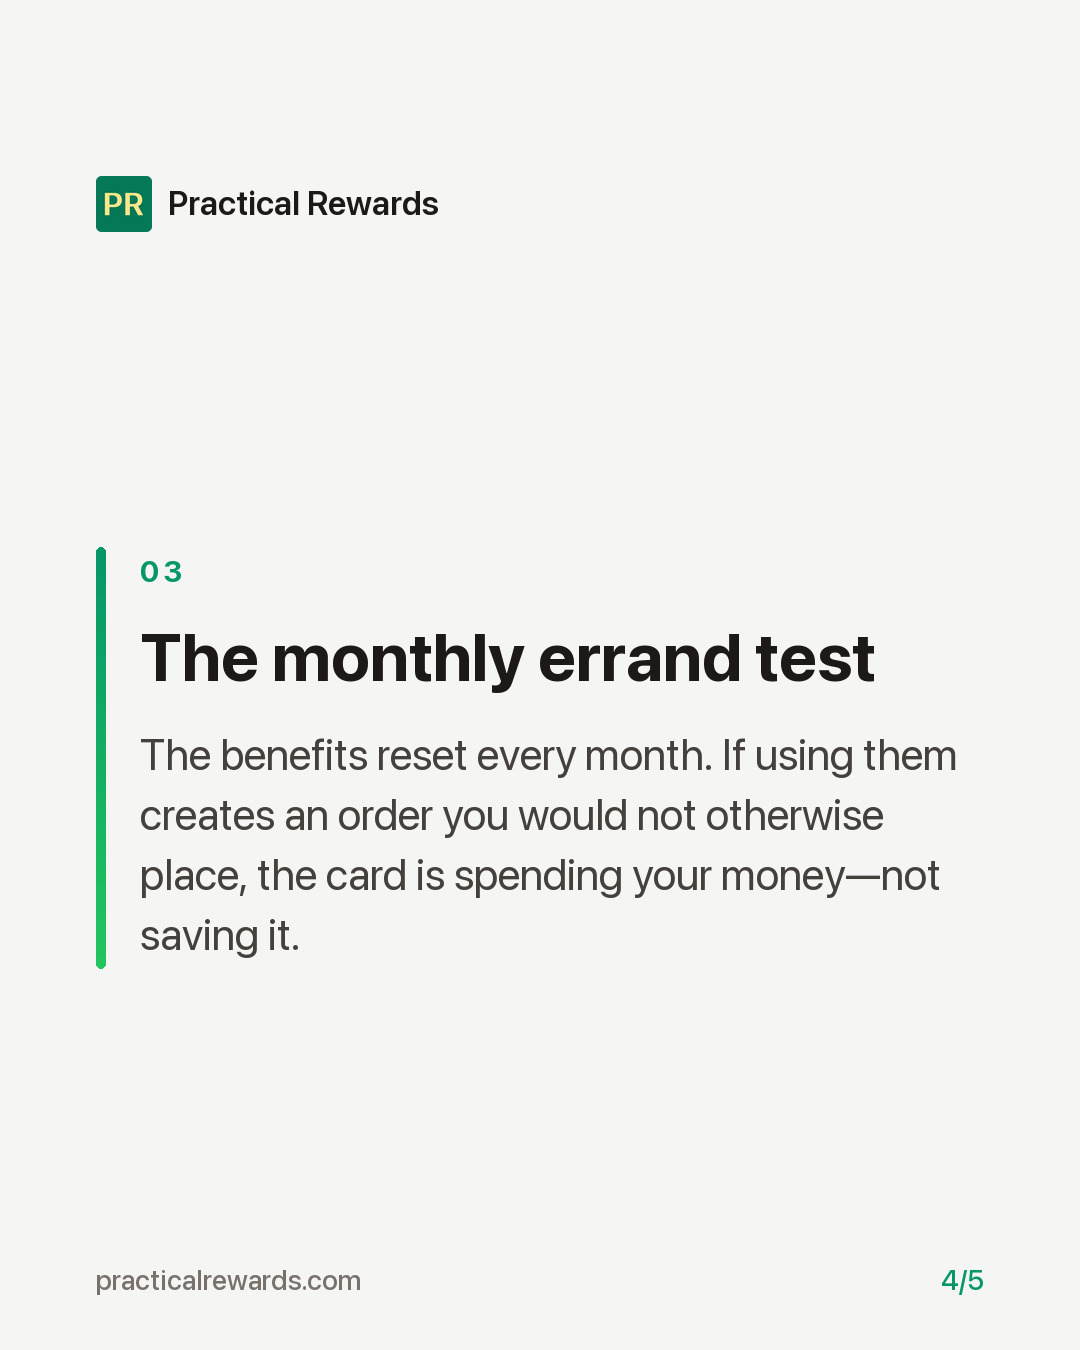
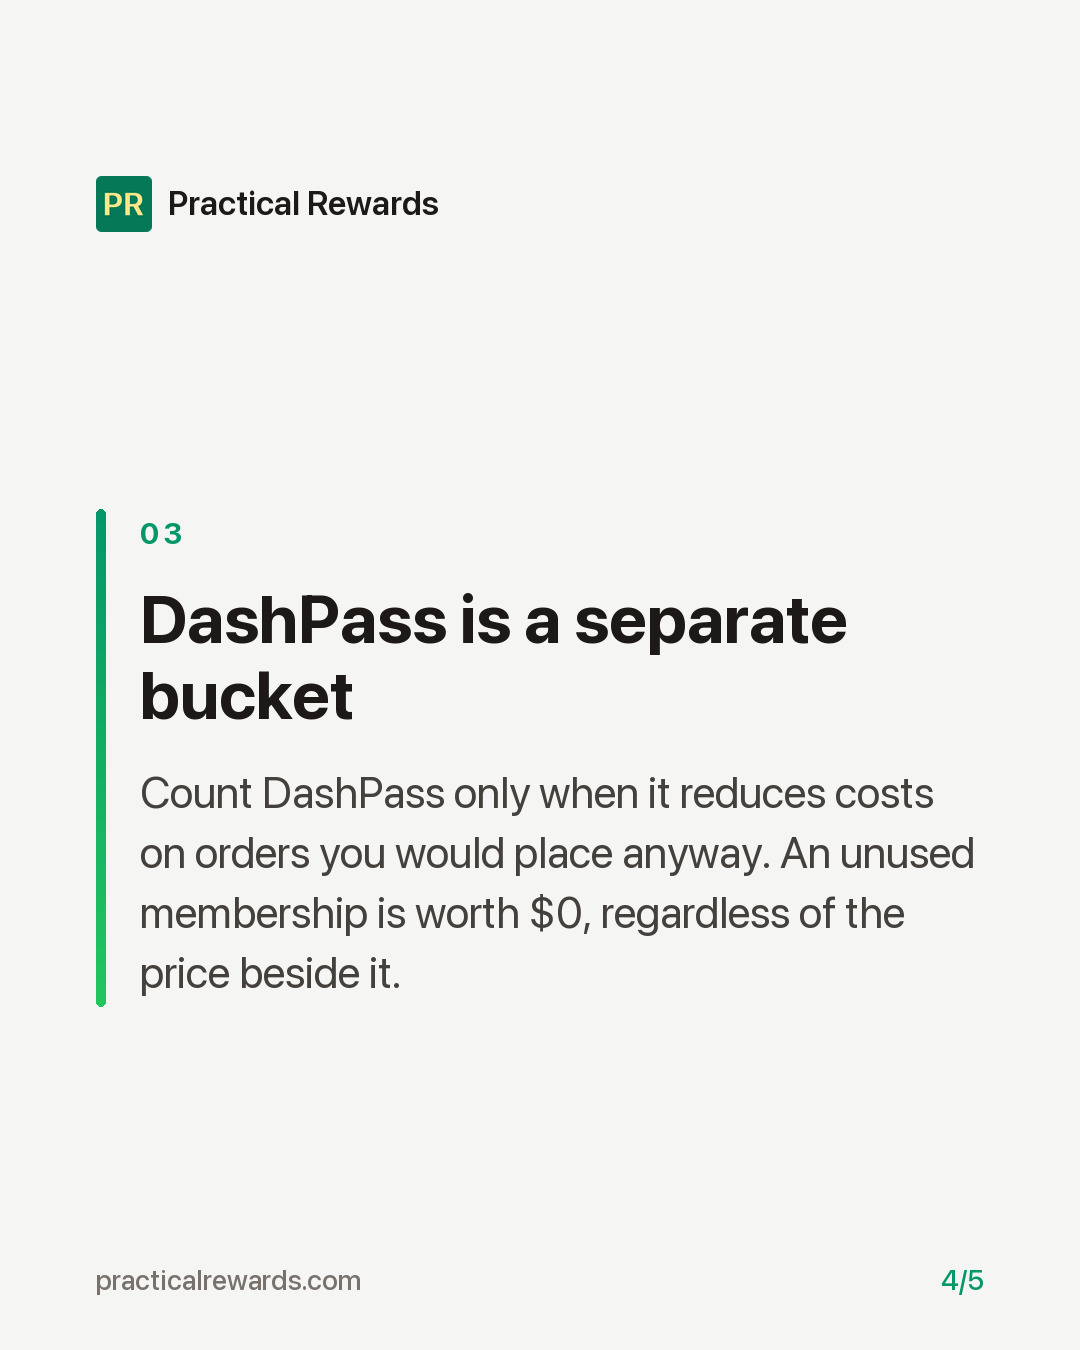
Social copy: no spelled-out years; publisher --backlog mode (oldest unposted first)

Changed region(s): [[0.0917, 0.3733, 0.9167, 0.7467]]

diff --git a/tools/instagram_publish.py b/tools/instagram_publish.py
@@ -202,6 +202,23 @@ def load_records() -> dict[str, Any]:
     return records if isinstance(records, dict) else {}
 
 
+def backlog_slug(records: dict[str, Any]) -> str | None:
+    """Oldest post (by blog date) with generated assets that has not been posted."""
+    published = read_json(STATE / "published.json", [])
+    if not isinstance(published, list):
+        return None
+    for item in published:  # published.json is in chronological order
+        if not isinstance(item, dict):
+            continue
+        slug = str(item.get("slug", ""))
+        record = records.get(slug)
+        if isinstance(record, dict) and record.get("state") == "published":
+            continue
+        if (ROOT / "social" / slug / "post.json").is_file():
+            return slug
+    return None
+
+
 def latest_slug() -> str:
     published = read_json(STATE / "published.json", [])
     if not isinstance(published, list) or not published:
@@ -215,6 +232,7 @@ def main() -> int:
     group.add_argument("--check", action="store_true", help="validate the token and print the account")
     group.add_argument("--latest", action="store_true", help="publish the newest post in published.json")
     group.add_argument("--slug", help="publish social/<slug>/")
+    group.add_argument("--backlog", action="store_true", help="publish the oldest generated post not yet on Instagram (no-op when the backlog is empty)")
     parser.add_argument("--dry-run", action="store_true", help="validate images and config without posting")
     parser.add_argument("--wait", type=int, default=600, help="seconds to wait for images to deploy (default 600)")
     args = parser.parse_args()
@@ -226,12 +244,18 @@ def main() -> int:
             account = check_account(config)
             print(json.dumps(account, indent=2))
             return 0
-        slug = args.slug or latest_slug()
+        records = load_records()
+        if args.backlog:
+            slug = backlog_slug(records)
+            if slug is None:
+                print("backlog empty: every generated post is already on Instagram")
+                return 0
+        else:
+            slug = args.slug or latest_slug()
         record_path = ROOT / "social" / slug / "post.json"
         record = read_json(record_path)
         if not isinstance(record, dict) or not record.get("images"):
             raise PublishError(f"no generated Instagram post at {record_path}")
-        records = load_records()
         existing = records.get(slug)
         if isinstance(existing, dict) and existing.get("state") == "published":
             print(f"already published: {existing.get('permalink')}")

diff --git a/tools/social.py b/tools/social.py
@@ -176,6 +176,8 @@ def check_text(field: str, value: Any, limit: int, allowed_numbers: set[str], al
         raise CopyRejected(f"{field} uses first-person singular")
     if re.search(r"\brumou?r\b", value, re.IGNORECASE):
         raise CopyRejected(f"{field} uses the word rumor")
+    if re.search(r"\b(?:19|20)\d{2}\b", value):
+        raise CopyRejected(f"{field} spells out a year; write dates like 'October 1' instead")
     unsupported = {
         token for token in numeric_tokens(value, key_numbers=True, include_bare_years=True) - allowed_numbers
         if not _same_value_elsewhere(token, allowed_numbers)

diff --git a/social/sapphire-reserve-doordash-credits-honest-math/caption.md b/social/sapphire-reserve-doordash-credits-honest-math/caption.md
@@ -1,11 +1,11 @@
-The headline value is real only for a fairly specific DoorDash habit.
+Most of this DoorDash benefit is for paper towels and snacks, not dinner.
 
-Starting October 1, 2026, the three monthly order benefits total $35: a flexible $15 credit and two $10 discounts limited to non-restaurant orders. Across 12 months, that is $420 in face value. DashPass is separate and counts only when it saves money on orders already planned.
+Starting October 1, the Sapphire Reserve carries $35 in monthly order benefits: a flexible $15 credit and $20 limited to non-restaurant orders. Across 12 months, that is $420 in face value. DashPass remains separate.
 
-The catch is obvious once the perk is stripped of card-speak. Restaurant-only users can count up to $15 a month, not the full $35. Anyone placing extra grocery or retail orders just to use expiring discounts is buying a monthly chore.
+The catch is organic spend. The non-restaurant discounts expire monthly, and the $15 credit can still pull a larger order along with it—the pickup minimum is $20. A benefit that creates spending or a recurring chore is not worth its printed value.
 
-Count purchases and savings already in the budget. If DoorDash is not already routine, value the order benefits at zero and ignore the coupon book.
+Count purchases and savings already in the budget. If DoorDash is not already part of the routine, value the order benefits at $0 and ignore the coupon book.
 
 Full breakdown on practicalrewards.com (link in bio).
 
-#CreditCards #CreditCardRewards #TravelRewards #PointsAndMiles #PersonalFinance #SapphireReserve #DoorDash #DashPass
+#CreditCards #CreditCardRewards #TravelRewards #PointsAndMiles #PersonalFinance #SapphireReserve #DoorDash #Chase

diff --git a/tools/prompts/social.md b/tools/prompts/social.md
@@ -6,6 +6,7 @@ Hard rules:
 - Follow the inlined house style: dry, numerate, blunt verdicts, no hype, no exclamation points, "we" or impersonal voice, never first-person singular.
 - Every number, dollar figure, percentage, multiplier, points figure, or date you write must already appear in the article with the same value. Do not introduce any number that is not in the article. Do not round, convert, or extrapolate.
 - Name only cards, issuers, and brands the article names.
+- Dates read like a person talking today: write "October 1" or "starting October 1", never "October 1, 2026" or "in 2026". Include a year only when the article is contrasting two different years.
 - No affiliate language, no "apply now", no urgency, no emoji, no hashtags or URLs inside slides, verdict, or caption (hashtags and the link line are appended automatically).
 - Do not repeat the hero stat card's label verbatim, and do not restate the math panel's rows on a text slide.
 - Plain text only. No Markdown, no HTML entities.
